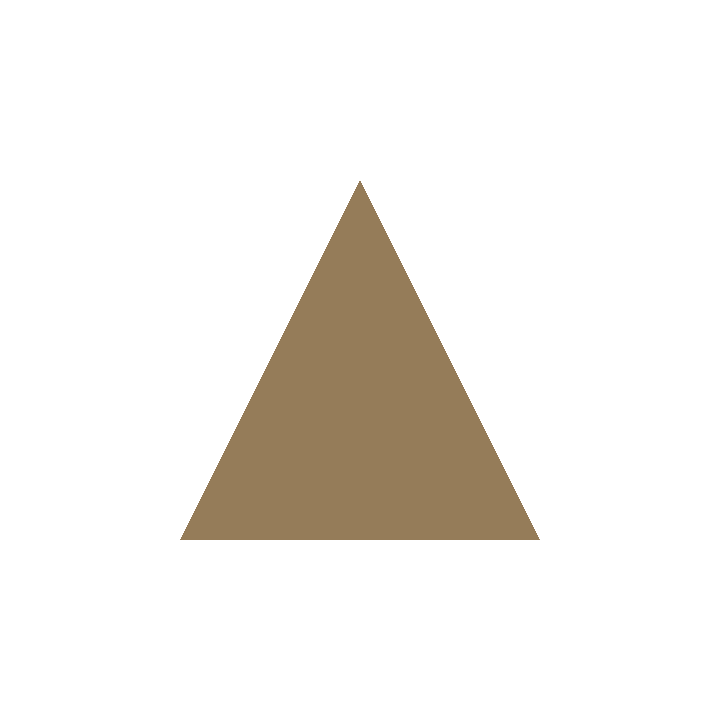
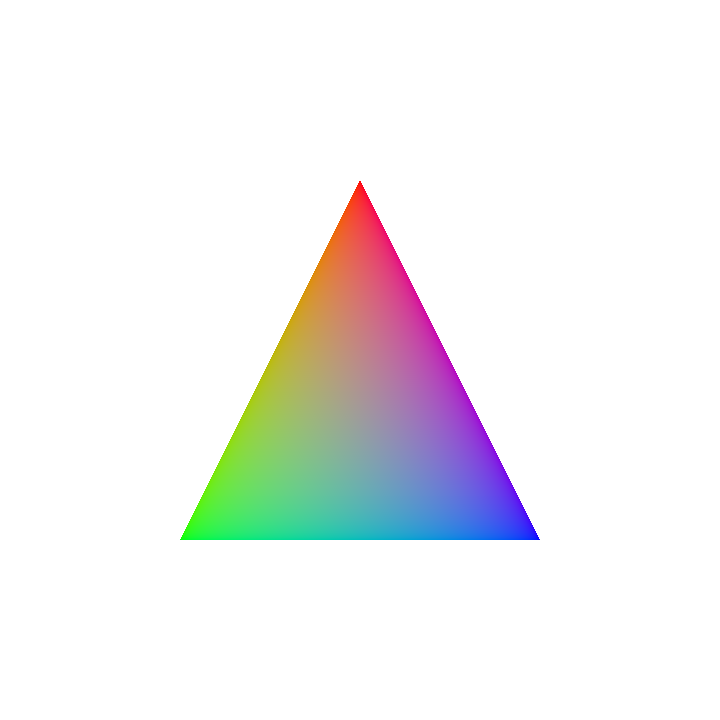
Draw a rainbow triangle

Changed region(s): [[0.2444, 0.2444, 0.7639, 0.7639]]

diff --git a/src/rust/src/lib.rs b/src/rust/src/lib.rs
@@ -9,7 +9,36 @@ use extendr_api::{
     },
     prelude::*,
 };
+
 use wgpu::include_wgsl;
+use wgpu::util::DeviceExt;
+
+#[repr(C)]
+#[derive(Copy, Clone, Debug, bytemuck::Pod, bytemuck::Zeroable)]
+struct Vertex {
+    position: [f32; 2],
+    color: [f32; 3],
+}
+
+#[rustfmt::skip]
+const VERTICES: &[Vertex] = &[
+    Vertex { position: [0.0,   0.5], color: [1.0, 0.0, 0.0] },
+    Vertex { position: [-0.5, -0.5], color: [0.0, 1.0, 0.0] },
+    Vertex { position: [0.5,  -0.5], color: [0.0, 0.0, 1.0] },
+];
+
+impl Vertex {
+    const ATTRIBS: [wgpu::VertexAttribute; 2] =
+        wgpu::vertex_attr_array![0 => Float32x2, 1 => Float32x3];
+
+    fn desc<'a>() -> wgpu::VertexBufferLayout<'a> {
+        wgpu::VertexBufferLayout {
+            array_stride: std::mem::size_of::<Self>() as wgpu::BufferAddress,
+            step_mode: wgpu::VertexStepMode::Vertex,
+            attributes: &Self::ATTRIBS,
+        }
+    }
+}
 
 #[allow(dead_code)]
 struct WgpuGraphicsDevice {
@@ -20,14 +49,13 @@ struct WgpuGraphicsDevice {
     output_buffer: wgpu::Buffer,
 
     render_pipeline: wgpu::RenderPipeline,
+    vertex_buffer: wgpu::Buffer,
 
     width: u32,
     height: u32,
     unpadded_bytes_per_row: u32,
     padded_bytes_per_row: u32,
 }
-
-const POINT: f64 = 12.0;
 
 impl WgpuGraphicsDevice {
     async fn new(width: u32, height: u32) -> Self {
@@ -109,7 +137,7 @@ impl WgpuGraphicsDevice {
             vertex: wgpu::VertexState {
                 module: &shader,
                 entry_point: "vs_main",
-                buffers: &[],
+                buffers: &[Vertex::desc()],
             },
             primitive: wgpu::PrimitiveState {
                 topology: wgpu::PrimitiveTopology::TriangleList,
@@ -139,6 +167,12 @@ impl WgpuGraphicsDevice {
             multiview: None,
         });
 
+        let vertex_buffer = device.create_buffer_init(&wgpu::util::BufferInitDescriptor {
+            label: Some("wgpugd vertex buffer"),
+            contents: bytemuck::cast_slice(VERTICES),
+            usage: wgpu::BufferUsages::VERTEX,
+        });
+
         Self {
             device,
             queue,
@@ -147,6 +181,7 @@ impl WgpuGraphicsDevice {
             output_buffer,
 
             render_pipeline,
+            vertex_buffer,
 
             width,
             height,
@@ -167,27 +202,29 @@ impl WgpuGraphicsDevice {
             });
 
         {
-            {
-                let mut render_pass = encoder.begin_render_pass(&wgpu::RenderPassDescriptor {
-                    label: Some("wgpugd render pass"),
-                    color_attachments: &[wgpu::RenderPassColorAttachment {
-                        view: &texture_view,
-                        resolve_target: None,
-                        ops: wgpu::Operations {
-                            // TODO: set the proper error from the value of gp->bg
-                            load: wgpu::LoadOp::Clear(wgpu::Color::WHITE),
-                            store: true,
-                        },
-                    }],
-                    // Since wgpugd is a 2D graphics device, we don't need the depth
-                    // buffers. However, stencil buffers might be used for masking
-                    // and clipping features. I don't figure out yet...
-                    depth_stencil_attachment: None,
-                });
+            let mut render_pass = encoder.begin_render_pass(&wgpu::RenderPassDescriptor {
+                label: Some("wgpugd render pass"),
+                color_attachments: &[wgpu::RenderPassColorAttachment {
+                    view: &texture_view,
+                    resolve_target: None,
+                    ops: wgpu::Operations {
+                        // TODO: set the proper error from the value of gp->bg
+                        load: wgpu::LoadOp::Clear(wgpu::Color::WHITE),
+                        store: true,
+                    },
+                }],
+                // Since wgpugd is a 2D graphics device, we don't need the depth
+                // buffers. However, stencil buffers might be used for masking
+                // and clipping features. I don't figure out yet...
+                depth_stencil_attachment: None,
+            });
 
-                render_pass.set_pipeline(&self.render_pipeline);
-                render_pass.draw(0..3, 0..1);
-            }
+            render_pass.set_pipeline(&self.render_pipeline);
+            render_pass.set_vertex_buffer(0, self.vertex_buffer.slice(..));
+            render_pass.draw(0..3, 0..1);
+
+            // Return the ownership. Otherwise the next operation on encoder would fail
+            drop(render_pass);
 
             encoder.copy_texture_to_buffer(
                 self.texture.as_image_copy(),

diff --git a/README.md b/README.md
@@ -44,6 +44,8 @@ development! :warning:
 ``` r
 library(wgpugd)
 library(ggplot2)
+#> Warning in register(): Can't find generic `scale_type` in package ggplot2 to
+#> register S3 method.
 
 wgpugd(10, 10)
 
@@ -61,3 +63,15 @@ knitr::include_graphics("tmp_wgpugd.png")
 ```
 
 <img src="tmp_wgpugd.png" width="100%" />
+
+## References
+
+-   wgpugd uses [extendr](https://extendr.github.io/), a Rust extension
+    mechanism for R, both to communicate with the actual graphics device
+    implementation in Rust from R, and to access R’s graphics API from
+    Rust.
+-   If you are curious about developing a Rust program with wgpu, I’d
+    recommend [Learn Wgpu](https://sotrh.github.io/learn-wgpu/) to get
+    started.
+-   [lyon](https://github.com/nical/lyon) is a library for “path
+    tessellation,” which is necessary to draw lines on GPU.
